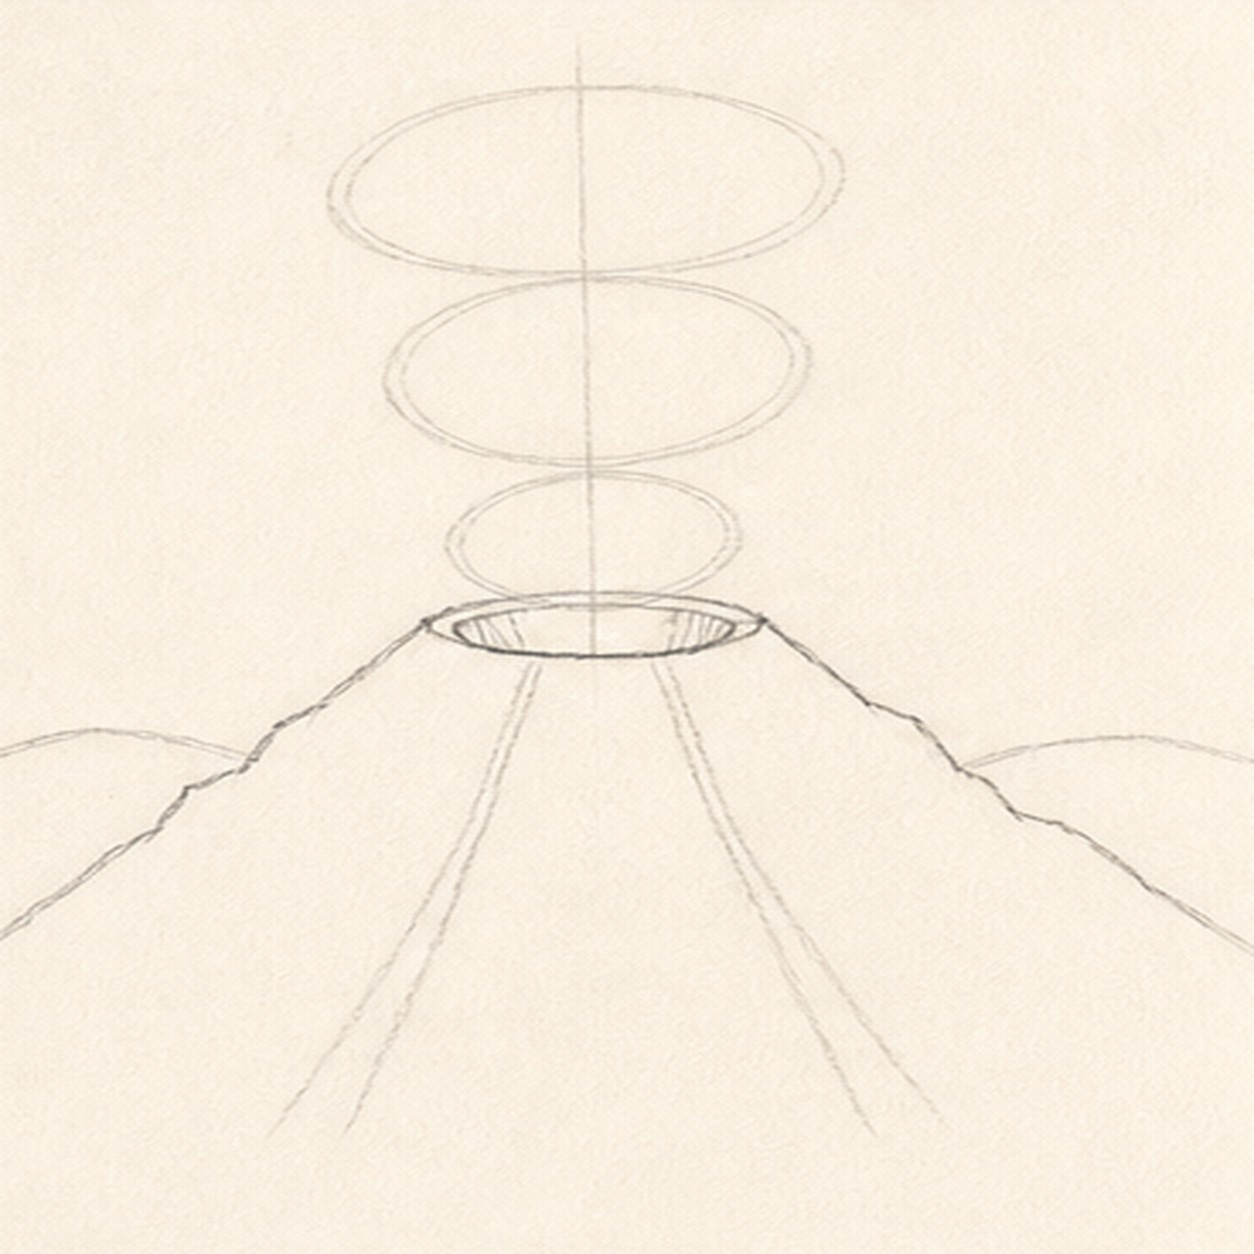
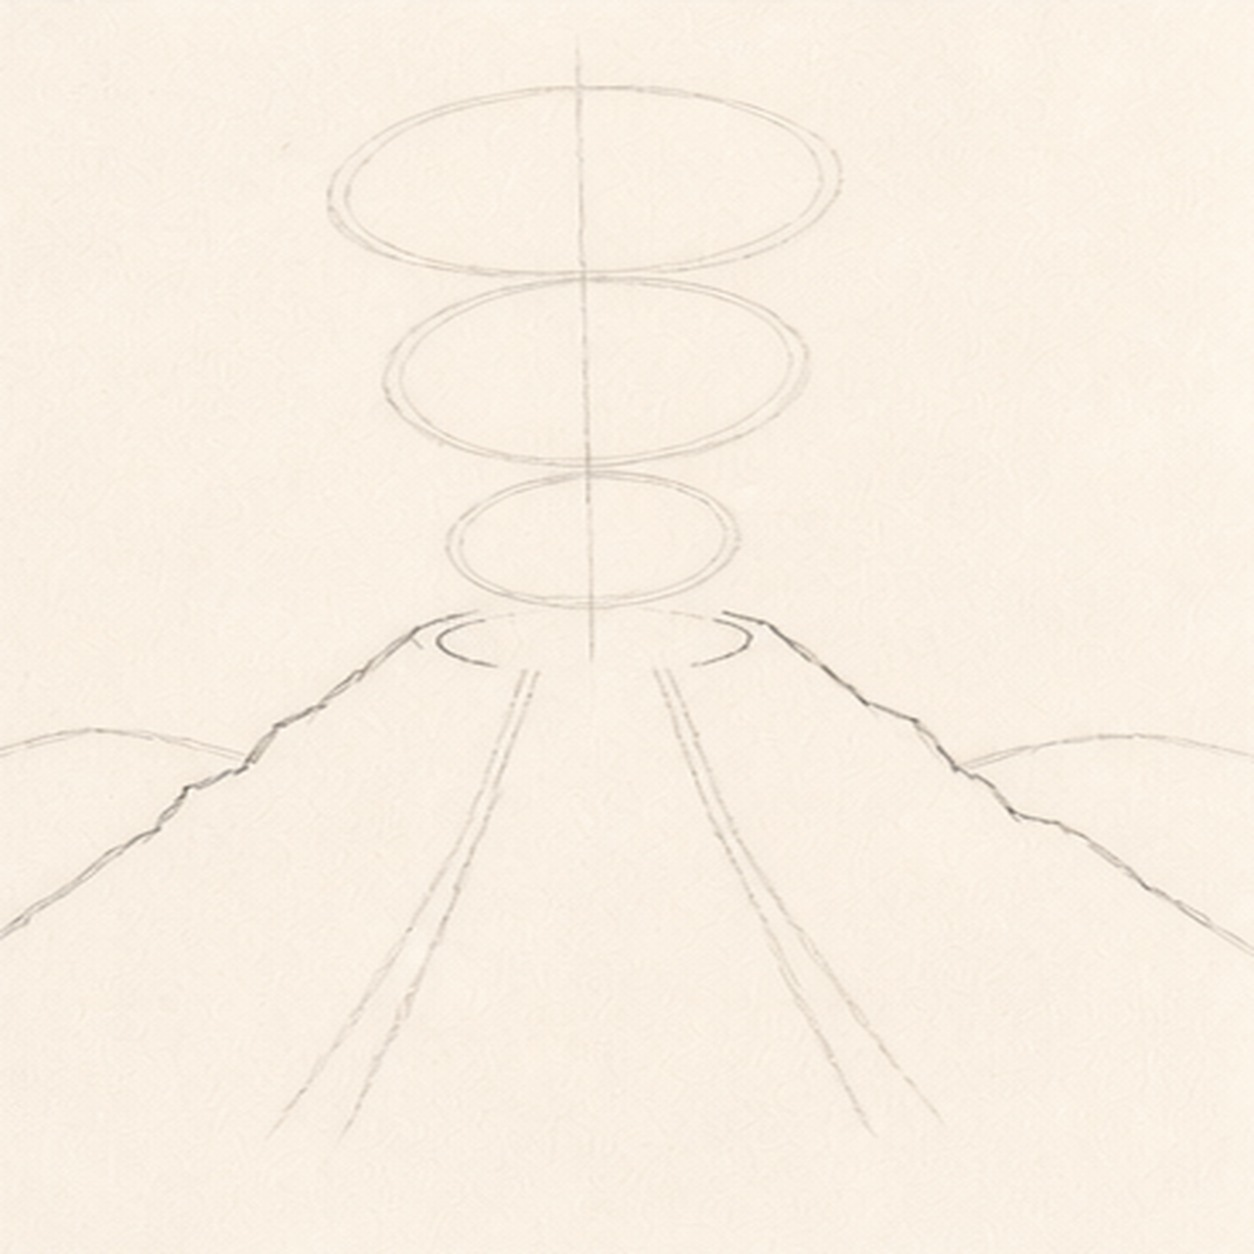
Fix volcano vent transition

Changed region(s): [[0.3421, 0.4665, 0.622, 0.5287], [0.7464, 0.5909, 0.7775, 0.622], [0.6531, 0.5287, 0.6842, 0.5598]]

diff --git a/tutorials/erupting-volcano-landscape.html b/tutorials/erupting-volcano-landscape.html
@@ -96,8 +96,8 @@
         },
         {
           "@type": "HowToStep",
-          "name": "Shape the cone and crater",
-          "text": "Wrap the envelope with two broken rocky mountain shoulders and shape the centered crater as an open rim while preserving the plume, lava, and ground guides."
+          "name": "Shape the cone and reserve the vent",
+          "text": "Wrap the envelope with two broken rocky mountain shoulders, then add only two short crater side-rim arcs and leave the central plume footprint open."
         },
         {
           "@type": "HowToStep",
@@ -221,12 +221,12 @@
             <button class="step-check" type="button" aria-label="Mark step 2 complete"><span></span></button>
             <div class="step-number">02</div>
             <div class="step-art">
-              <img src="../assets/erupting-volcano-landscape-step-2.webp" alt="Shape the cone and crater stage for how to draw a volcano" width="627" height="627" loading="lazy">
+              <img src="../assets/erupting-volcano-landscape-step-2.webp" alt="Shape the cone and reserve the vent stage for how to draw a volcano" width="627" height="627" loading="lazy">
             </div>
             <div class="step-copy">
-              <h3>Shape the cone and crater</h3>
-              <p>Wrap the envelope with two broken rocky mountain shoulders and shape the centered crater as an open rim while preserving the plume, lava, and ground guides.</p>
-              <p class="artist-tip"><strong>Sketch tip:</strong> Rotate the page for each long slope. Let the two shoulders differ slightly, but keep their ground anchors and the crater center fixed.</p>
+              <h3>Shape the cone and reserve the vent</h3>
+              <p>Wrap the envelope with two broken rocky mountain shoulders, then add only two short crater side-rim arcs and leave the central plume footprint open.</p>
+              <p class="artist-tip"><strong>Sketch tip:</strong> Rotate the page for each long slope. Stop both crater arcs before the plume spine; the smoke will fill that reserved gap in the next step without hiding finished crater work.</p>
             </div>
           </li>
           <li class="step-card">

diff --git a/index.html b/index.html
@@ -115,12 +115,12 @@
             <button class="step-check" type="button" aria-label="Mark step 2 complete"><span></span></button>
             <div class="step-number">02</div>
             <div class="step-art">
-              <img src="assets/erupting-volcano-landscape-step-2.webp" alt="Shape the cone and crater stage for how to draw a volcano" width="627" height="627" loading="lazy">
+              <img src="assets/erupting-volcano-landscape-step-2.webp" alt="Shape the cone and reserve the vent stage for how to draw a volcano" width="627" height="627" loading="lazy">
             </div>
             <div class="step-copy">
-              <h3>Shape the cone and crater</h3>
-              <p>Wrap the envelope with two broken rocky mountain shoulders and shape the centered crater as an open rim while preserving the plume, lava, and ground guides.</p>
-              <p class="artist-tip"><strong>Sketch tip:</strong> Rotate the page for each long slope. Let the two shoulders differ slightly, but keep their ground anchors and the crater center fixed.</p>
+              <h3>Shape the cone and reserve the vent</h3>
+              <p>Wrap the envelope with two broken rocky mountain shoulders, then add only two short crater side-rim arcs and leave the central plume footprint open.</p>
+              <p class="artist-tip"><strong>Sketch tip:</strong> Rotate the page for each long slope. Stop both crater arcs before the plume spine; the smoke will fill that reserved gap in the next step without hiding finished crater work.</p>
             </div>
           </li>
           <li class="step-card">

diff --git a/HUMANS.md b/HUMANS.md
@@ -2,6 +2,11 @@
 
 ## 2026-09-01 — Daily tutorial (Codex)
 
+- Corrected Step 2 after owner review: the mountain is now established with
+  two short crater side-rim keepers and an open central vent reservation, so
+  the Step 3 plume grows into blank paper instead of covering finished crater
+  work. The superseded sheet is private under `rejected-progressions/`; the
+  finish and one-current-lesson cadence remain unchanged.
 - Added one current lesson only: `erupting-volcano-landscape` (September 1 /
   Day 122). The approved eight-panel handmade raster pencil process holds one
   broad cone, one centered crater, one three-tier plume, two lava streams,
